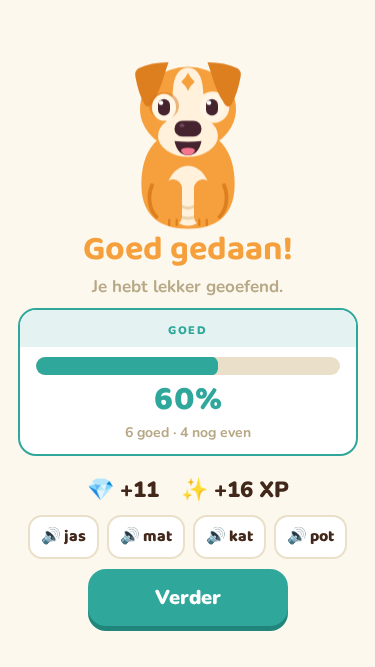
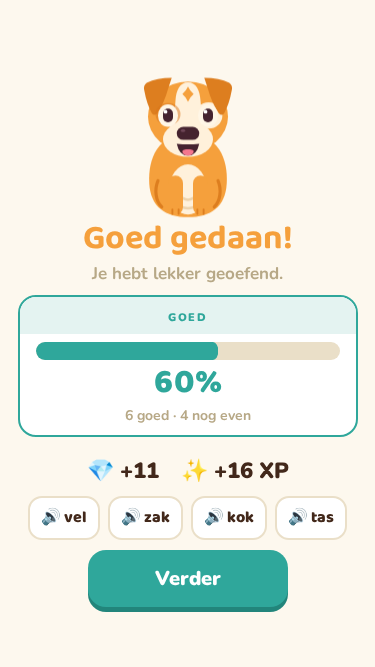
Fix the two things only WebKit found
CI's ipad and iphone profiles caught what desktop Chromium could not, and
this machine cannot run WebKit locally (missing system libraries, root
needed), so both were found the slow way — on the PR.

**The beat recorder dropped a beat.** Its observer callback read the live
`data-beat` attribute, which only ever says where the screen has got to. On
the ipad profile two beat timers really do fire back to back, late and
batched into one microtask checkpoint, and a beat that came and went inside
one checkpoint left no trace: three runs out of three lost `settle` or
`strip` and failed an assertion about an order the screen had actually gone
through correctly. Every `MutationRecord` carries its own `oldValue`, so
walking the records and then appending the current value reconstructs the
chain exactly, however they were batched. A test bug, not a product one — but
one that would have kept lying either way.

**The iPhone SE layout fitted by four pixels, which is not fitting.** The
short-screen block took its 47px out of gaps, padding and type and kept Frida
at 180px. That left 15px of slack on Chromium; WebKit's text metrics run
about 11px taller over a screen this long, so both profiles came back 11px
*over* and the reward screen scrolled inside itself. Frida now comes down to
150px below 700px of height, which buys ~60px of slack — enough to be true on
both engines, and enough for a round whose four nog-even words are long ones.
She is still plainly the hero of a 667px screen.
[…]

Changed region(s): [[0.0293, 0.09, 0.968, 0.9595], [0.0293, 0.6297, 0.1173, 0.6897], [0.9093, 0.6297, 0.968, 0.6897]]

diff --git a/app/tests/e2e/fixtures/round.ts b/app/tests/e2e/fixtures/round.ts
@@ -65,14 +65,26 @@ export async function finishRound(page: Page, correct: number): Promise<string[]
  * between two round-trips. A MutationObserver installed before the app boots sees each one
  * as it happens, so the assertion is about the *order* the screen really went through
  * rather than about what the test managed to catch.
+ *
+ * **Why it reads `oldValue` and not just the current attribute.** An observer callback is a
+ * microtask that runs once per checkpoint, however many mutations landed in it — and on CI's
+ * ipad profile two beat timers really do fire back to back, late and batched, often enough
+ * that the first version of this dropped `settle` (and once `strip`) on three runs out of
+ * three. Reading the live attribute in the callback only ever sees where the screen has got
+ * to, so a beat that came and went inside one checkpoint leaves no trace. Every record
+ * carries its own `oldValue`, so walking the records and then appending the current value
+ * reconstructs the chain exactly, however they were batched.
  */
 export async function recordBeats(page: Page): Promise<void> {
   await page.addInitScript(() => {
     const w = window as unknown as { __beats: string[] }
     w.__beats = []
-    const note = () => {
-      const beat = document.querySelector('.reward-screen')?.getAttribute('data-beat')
+    const push = (beat: string | null | undefined) => {
       if (beat && w.__beats[w.__beats.length - 1] !== beat) w.__beats.push(beat)
+    }
+    const note = (records: MutationRecord[]) => {
+      for (const r of records) if (r.type === 'attributes') push(r.oldValue)
+      push(document.querySelector('.reward-screen')?.getAttribute('data-beat'))
     }
     // `document`, not `document.documentElement`: an init script runs before the document
     // has an <html> element, and observing null throws — silently, since nothing awaits an
@@ -82,6 +94,7 @@ export async function recordBeats(page: Page): Promise<void> {
       childList: true,
       attributes: true,
       attributeFilter: ['data-beat'],
+      attributeOldValue: true,
     })
   })
 }

diff --git a/app/src/theme.css b/app/src/theme.css
@@ -1681,13 +1681,22 @@ button:disabled { cursor: default; }
  * An iPhone SE is 667pt tall and the whole celebration has to fit on it without scrolling,
  * chips and all (§3) — a Verder she has to scroll to find is a dead end at the one moment
  * the screen is asking her to carry on. Measured at 375x667 with four chips the comfortable
- * rhythm above runs 47px over, so short screens get a tighter one: smaller gaps, less
- * padding, a smaller number and smaller chips. Frida stays 180px — she is the thing worth
- * the space, and the rest adds up to more than enough without touching her.
+ * rhythm above runs 47px over, so short screens get a tighter one.
+ *
+ * Frida comes down to 150px here, which is the part that was not in the plan. The first
+ * version kept her at 180 and took the 47px out of gaps, padding and type — and it fit, with
+ * 15px to spare on Chromium and 4px *under* on CI's WebKit profiles, whose text metrics run
+ * about 11px taller over a screen this long. A layout that fits by four pixels on one engine
+ * does not fit; it is waiting for a longer word. Thirty px off the hero buys the margin that
+ * makes it true on both, and a 150px Frida on a 667px screen is still plainly the hero.
  */
 @media (max-height: 700px) {
   .reward-screen { gap: 10px; padding: 8px 16px; }
-  .reward-bar { margin: 10px 16px 8px; }
+  .reward-hero, .frida-scale { width: 150px; height: 150px; }
+  .reward-screen .frida { width: 150px; }
+  .reward-title { gap: 4px; }
+  .reward-card { padding-bottom: 10px; }
+  .reward-bar { margin: 8px 16px 6px; }
   .reward-pct { font-size: 34px; }
   .word-chip { font-size: 16px; padding: 6px 11px; }
 }

diff --git a/docs/reward-celebration.md b/docs/reward-celebration.md
@@ -414,10 +414,15 @@ Layout:
     beat.** §2's clipping gate and §3's "with more chips the screen may scroll" cannot both
     hold of the same rule. The thing that needs clipping is the 2.2× hero, and it is long
     over by the time the chips are on screen.
-15. **A `@media (max-height: 700px)` block tightens the rhythm.** Measured at 375×667 with
-    four chips, the comfortable spacing ran 47px over and pushed Verder off the screen. Short
-    screens get `gap: 10px`, less padding, a 34px number and smaller chips; Frida stays
-    180px, because she is the thing worth the space.
+15. **A `@media (max-height: 700px)` block tightens the rhythm, Frida included.** Measured at
+    375×667 with four chips, the comfortable spacing ran 47px over and pushed Verder off the
+    screen. Short screens get `gap: 10px`, less padding, a 34px number, smaller chips — and a
+    **150px Frida rather than 180px**, which is the part that is not in §3. The first attempt
+    kept her at 180 and took the whole 47px out of spacing and type. It fit on Chromium with
+    15px to spare, and CI came back 11px *over* on both WebKit profiles, whose text metrics
+    run taller over a screen this long. A layout that fits by four pixels on one engine is
+    not a layout that fits. Thirty px off the hero buys ~60px of slack and makes it true on
+    both engines; a 150px Frida on a 667px screen is still plainly the hero.
 
 Elsewhere in the app:
 
